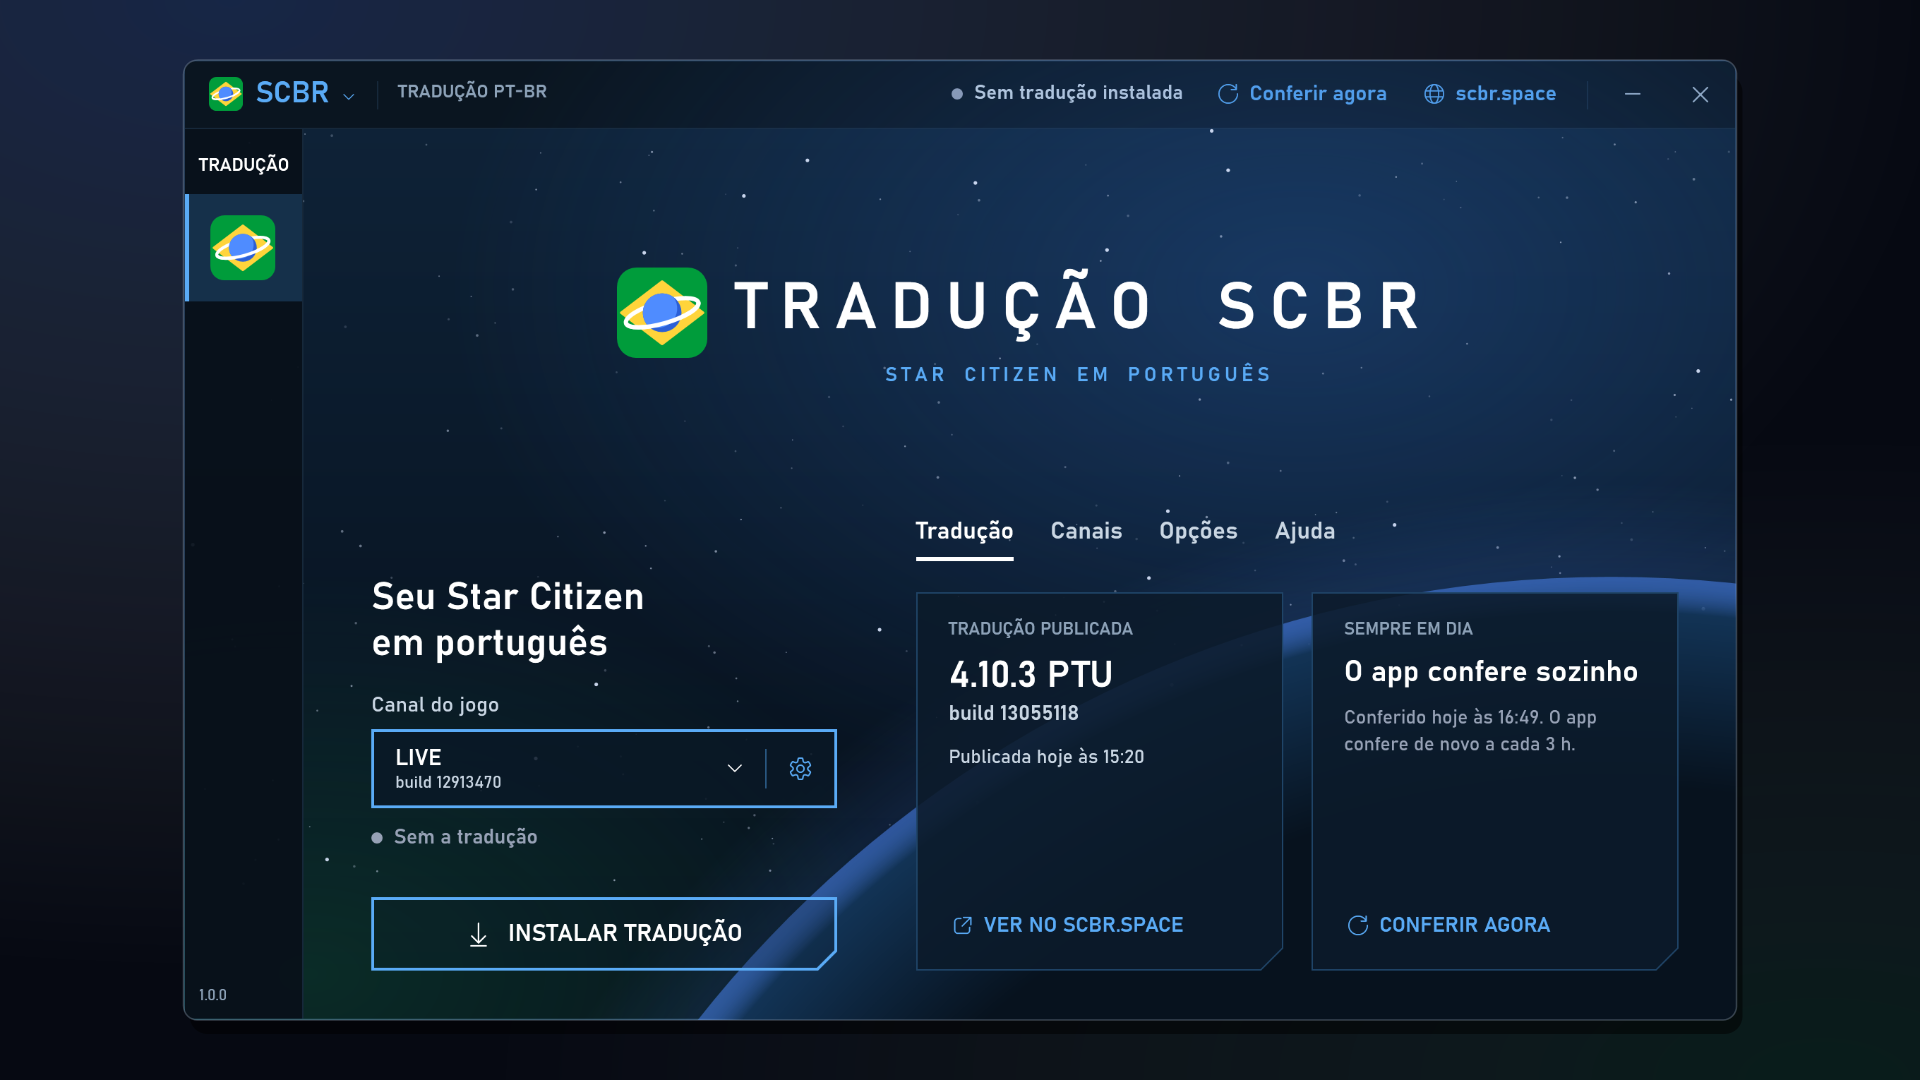
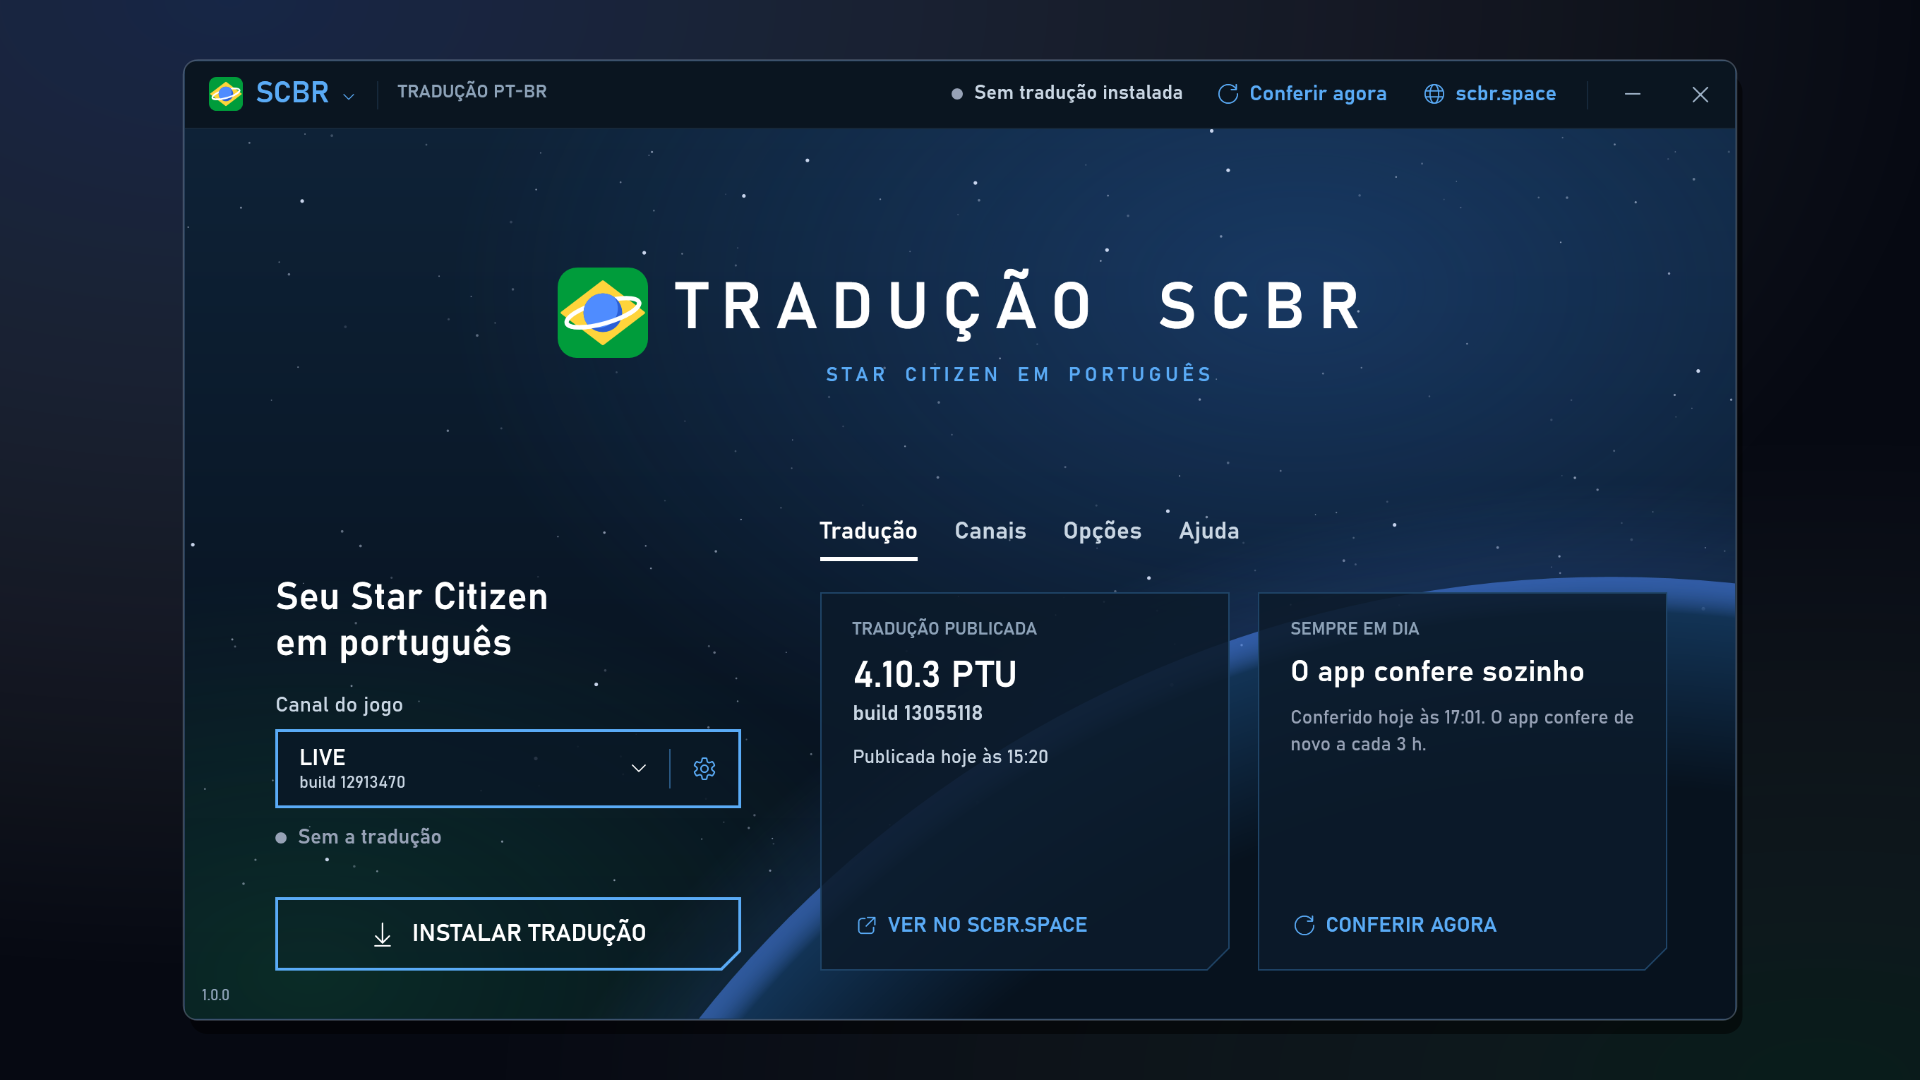
Sem o trilho da esquerda; os botões da barra do topo voltam a funcionar
- O trilho da esquerda sai (pedido do Eduardo): o launcher tem o trilho por causa
  dos outros jogos, como o Squadron 42, e a tradução é uma só. A versão fica no canto.
- O minimizar (e o fechar e o "Conferir agora") não pegavam o clique do mouse: a
  nebulosa do fundo espacial era desenhada além da borda de cima e cobria a barra do
  topo, então o WindowChrome tratava o clique como arrasto da janela. O fundo agora é
  cortado nos limites dele e fica fora do teste de clique. Conferido com o
  WM_NCHITTEST em toda a barra e com um clique de mouse de verdade no minimizar.
- O bloco da direita da barra marca IsHitTestVisibleInChrome direto; as imagens do
  README e da loja foram refeitas.

diff --git a/src/TraducaoScbr/JanelaPrincipal.xaml b/src/TraducaoScbr/JanelaPrincipal.xaml
@@ -99,7 +99,7 @@
                        Foreground="{StaticResource LauncherTextoSuave}" />
           </StackPanel>
 
-          <StackPanel Grid.Column="2" Orientation="Horizontal">
+          <StackPanel Grid.Column="2" Orientation="Horizontal" shell:WindowChrome.IsHitTestVisibleInChrome="True">
             <StackPanel Orientation="Horizontal" VerticalAlignment="Center" Margin="0,0,12,0" ToolTip="{Binding CheckText}">
               <Ellipse Width="8" Height="8" Fill="{Binding OverallColor}" VerticalAlignment="Center" />
               <TextBlock Text="{Binding OverallText}" FontFamily="{StaticResource FonteLauncher}" FontSize="14" Margin="8,0,0,1"
@@ -126,28 +126,13 @@
       </Border>
 
       <Grid Grid.Row="1">
-        <Grid.ColumnDefinitions>
-          <ColumnDefinition Width="84" />
-          <ColumnDefinition Width="*" />
-        </Grid.ColumnDefinitions>
-        <local:FundoEspacial Grid.ColumnSpan="2" />
+        <local:FundoEspacial />
 
-        <!-- O trilho da esquerda, com o app selecionado (o "GAME" do launcher). -->
-        <Border Background="{StaticResource LauncherTrilho}" BorderBrush="{StaticResource LauncherBarraLinha}" BorderThickness="0,0,1,0">
-          <Grid>
-            <StackPanel>
-              <TextBlock Text="TRADUÇÃO" FontFamily="{StaticResource FonteLauncher}" FontSize="13" HorizontalAlignment="Center" Margin="0,18,0,12" />
-              <Grid Height="76" Background="{StaticResource LauncherSelecao}" ToolTip="Tradução PT-BR do Star Citizen">
-                <Border Width="3" HorizontalAlignment="Left" Background="{StaticResource Acento}" />
-                <Image Source="{StaticResource Simbolo}" Width="46" Height="46" />
-              </Grid>
-            </StackPanel>
-            <TextBlock Text="{Binding AppVersionShort}" VerticalAlignment="Bottom" Margin="10,0,0,10" FontSize="11"
-                       Foreground="{StaticResource LauncherTextoSuave}" />
-          </Grid>
-        </Border>
+        <!-- A versão no canto, como a do launcher. -->
+        <TextBlock Text="{Binding AppVersionShort}" VerticalAlignment="Bottom" HorizontalAlignment="Left" Margin="12,0,0,10" FontSize="11"
+                   Foreground="{StaticResource LauncherTextoSuave}" />
 
-        <Grid Grid.Column="1">
+        <Grid>
           <Grid.RowDefinitions>
             <RowDefinition Height="*" />
             <RowDefinition Height="Auto" />
@@ -166,7 +151,7 @@
                        HorizontalAlignment="Center" Margin="84,4,0,0" />
           </StackPanel>
 
-          <Grid Grid.Row="1" Margin="48,0,40,34">
+          <Grid Grid.Row="1" Margin="64,0,48,34">
             <Grid.ColumnDefinitions>
               <ColumnDefinition Width="330" />
               <ColumnDefinition Width="56" />

diff --git a/src/TraducaoScbr/Tema.xaml b/src/TraducaoScbr/Tema.xaml
@@ -241,8 +241,6 @@
 
   <SolidColorBrush x:Key="LauncherBarra" Color="#FF0A1520" />
   <SolidColorBrush x:Key="LauncherBarraLinha" Color="#FF16283A" />
-  <SolidColorBrush x:Key="LauncherTrilho" Color="#F0071019" />
-  <SolidColorBrush x:Key="LauncherSelecao" Color="#FF15304A" />
   <SolidColorBrush x:Key="LauncherPainel" Color="#E00B1A2A" />
   <SolidColorBrush x:Key="LauncherCampo" Color="#D9091726" />
   <SolidColorBrush x:Key="LauncherBorda" Color="#FF1F4467" />

diff --git a/src/TraducaoScbr/FundoEspacial.cs b/src/TraducaoScbr/FundoEspacial.cs
@@ -11,6 +11,13 @@ public sealed class FundoEspacial : FrameworkElement
 {
     private static readonly (double X, double Y, double Size, double Alpha)[] Stars = MakeStars();
 
+    public FundoEspacial()
+    {
+        // Sem isso, a nebulosa desenhada além da borda de cima cobria a barra do topo e pegava o clique dos botões.
+        ClipToBounds = true;
+        IsHitTestVisible = false;
+    }
+
     private static readonly Brush Base = Frozen(new LinearGradientBrush(
         new GradientStopCollection
         {
